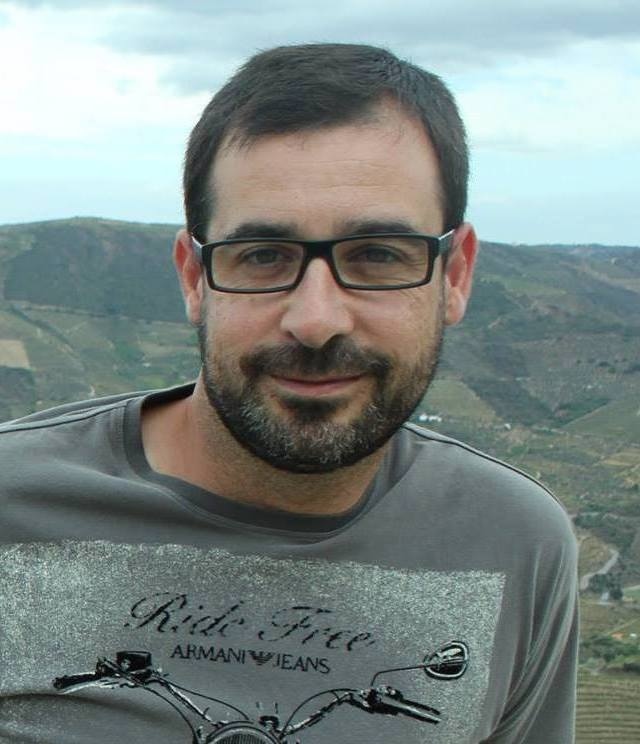
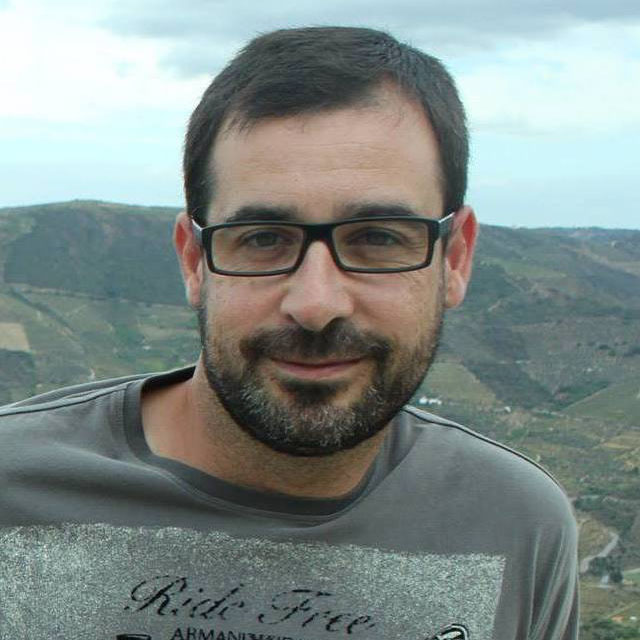
other photo

diff --git a/index.html b/index.html
@@ -18,7 +18,7 @@
 <body>
 	<main>
 		<div class="intro">Hello, I'm Marco!</div>
-		<div class="image"><img width="150px" src="images/mfamador.png" alt="Marco"></div>
+		<div class="image"><img width="150px" src="images/mfamador.jpg" alt="Marco"></div>
 		<div class="title">Porto, Portugal</div>
 		<div class="tagline">Data | Software | SRE</div>
 		<div class="icons-social">
